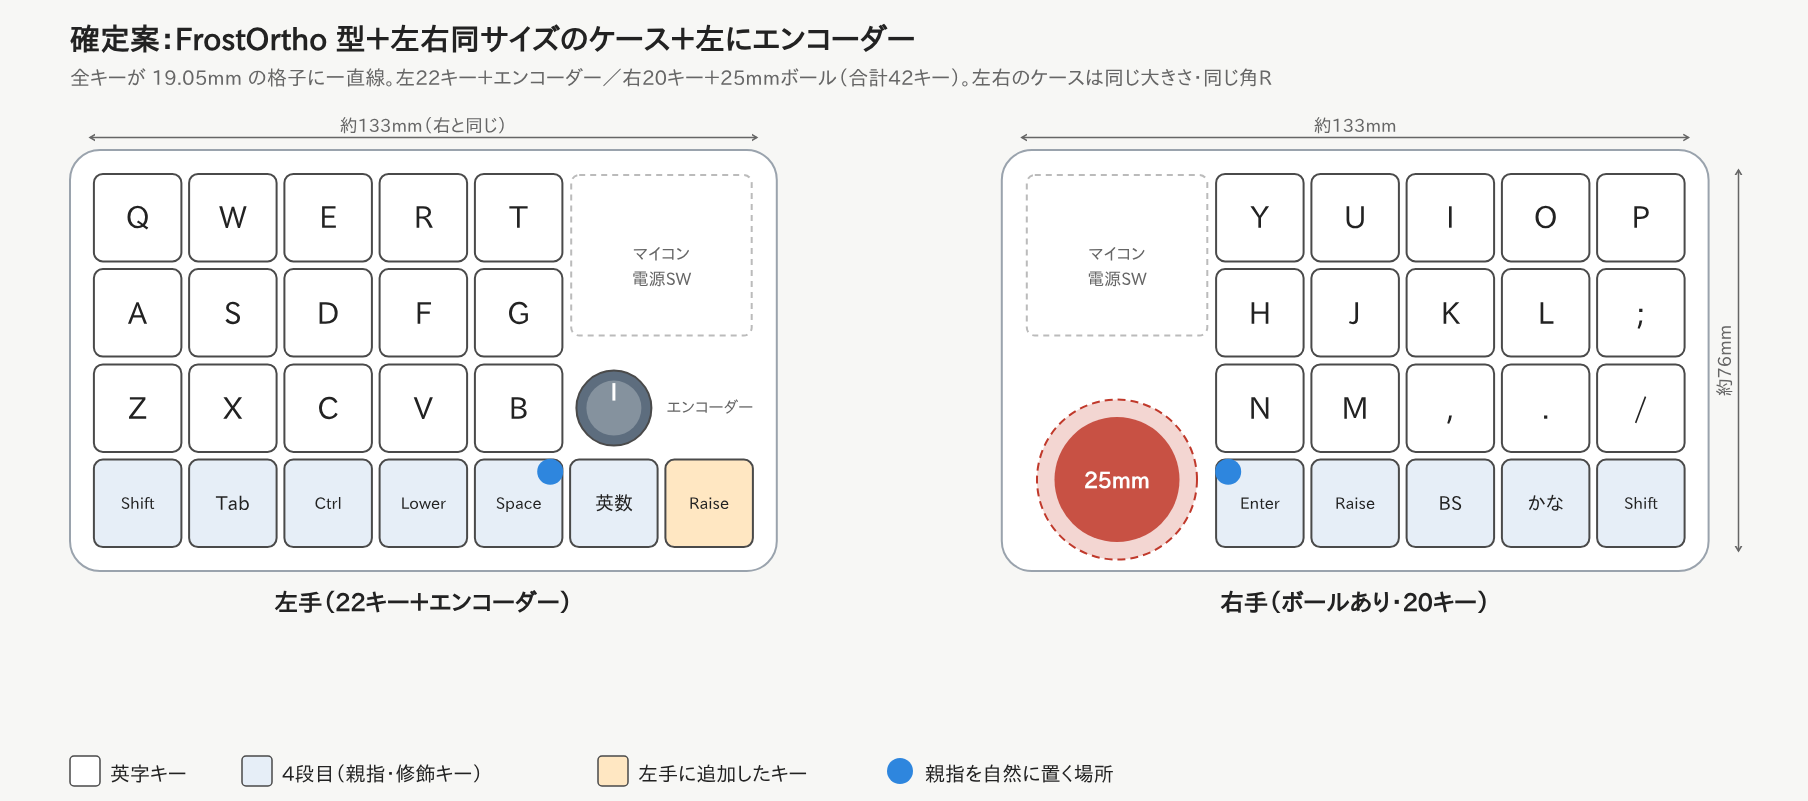
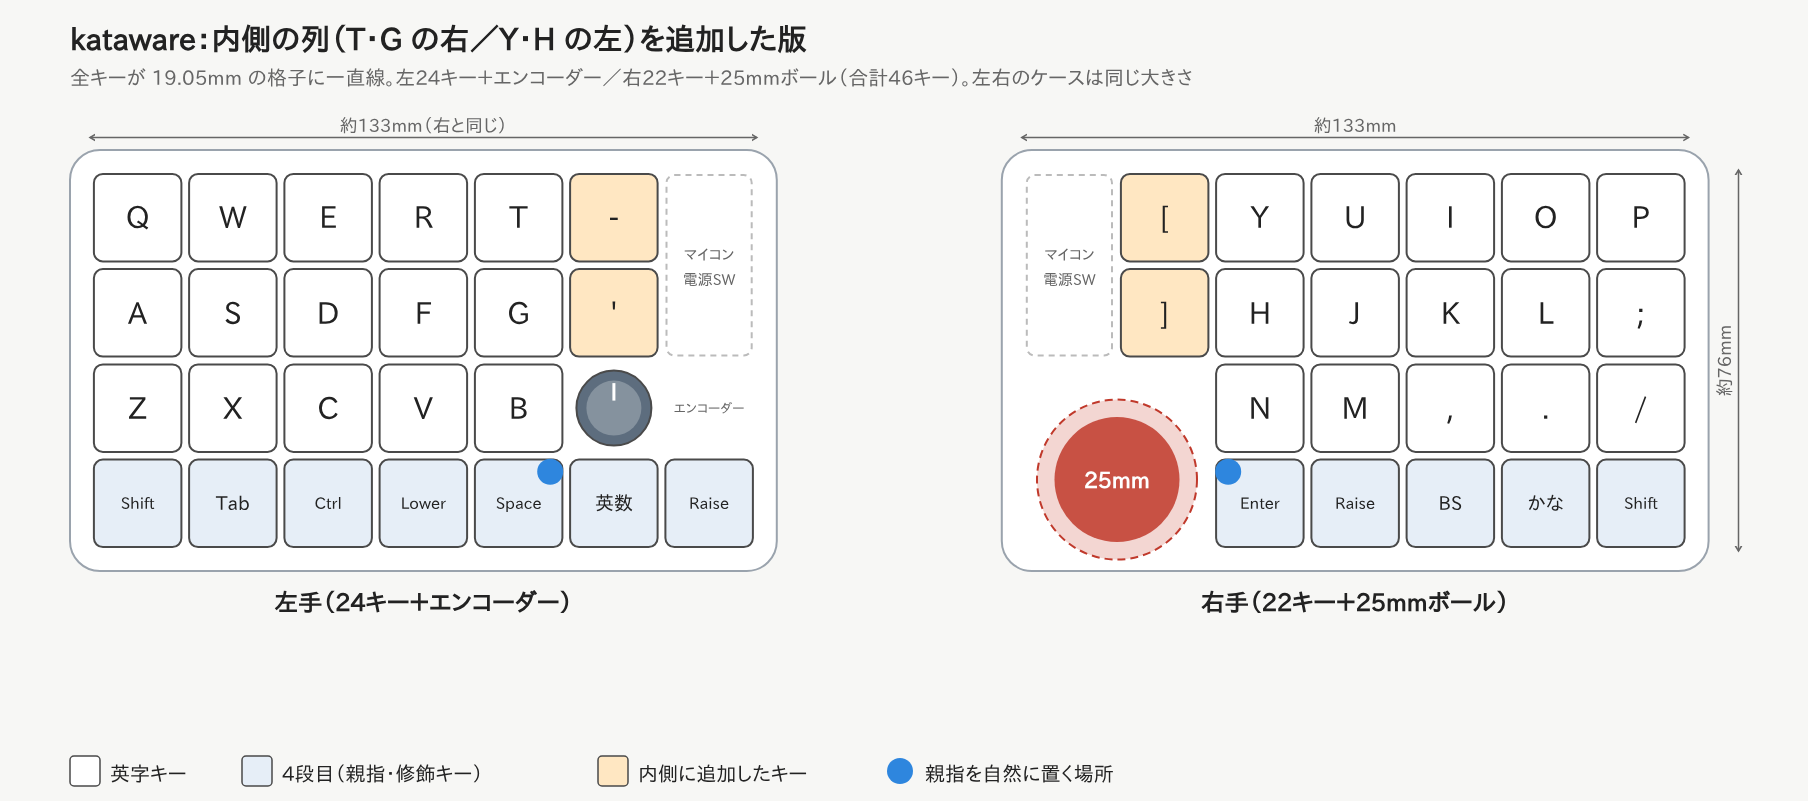
Add inner column keys next to T/G and Y/H (46 keys)
- Left: COL5 x ROW0/ROW1 beside T and G.
- Right: new innermost column on D21 for the keys beside Y and H.
- Controllers move to the outer half of each inner strip; the ball
  and encoder positions are unchanged.
- Default bindings: - and ' on the left, [ and ] on the right.
- Update layout image and README.

Claude-Session: https://claude.ai/code/session_017zNm7dMSTHELcztuNr6aNy

diff --git a/tools/draw_layout.py b/tools/draw_layout.py
@@ -106,7 +106,7 @@ def half_right(svg, ox, oy, ball_fn, alpha_ox):
 
 def legend(svg, x, y):
     items = [(C["alpha"], "英字キー"), (C["mod"], "4段目（親指・修飾キー）"),
-             (C["extra"], "左手に追加したキー")]
+             (C["extra"], "内側に追加したキー")]
     cx = x
     for fill, label in items:
         svg.add(f'<rect x="{mm(cx):.1f}" y="{mm(y):.1f}" width="{mm(6):.1f}" height="{mm(6):.1f}" rx="4" '
@@ -199,8 +199,8 @@ def plan_final():
     w = MARGIN*2 + lw + GAP + rw + 2*WALL + 14
     h = title_h + 4*U + 2*WALL + 46
     svg = Svg(mm(w), mm(h))
-    svg.text(MARGIN, 10, "確定案：FrostOrtho 型＋左右同サイズのケース＋左にエンコーダー", 30, weight="bold")
-    svg.text(MARGIN, 17, "全キーが 19.05mm の格子に一直線。左22キー＋エンコーダー／右20キー＋25mmボール（合計42キー）。左右のケースは同じ大きさ・同じ角R", 20, color=C["sub"])
+    svg.text(MARGIN, 10, "kataware：内側の列（T・G の右／Y・H の左）を追加した版", 30, weight="bold")
+    svg.text(MARGIN, 17, "全キーが 19.05mm の格子に一直線。左24キー＋エンコーダー／右22キー＋25mmボール（合計46キー）。左右のケースは同じ大きさ", 20, color=C["sub"])
     oy = title_h + WALL
     lx = MARGIN + WALL
     def case(x, y, cw, ch):
@@ -218,17 +218,19 @@ def plan_final():
     for c in range(5):
         svg.key(lx + c*U, oy + 3*U, LROW4[c], C["mod"])
     svg.key(lx + 5*U, oy + 3*U, "英数", C["mod"])
-    svg.key(lx + 6*U, oy + 3*U, "Raise", C["extra"])
+    svg.key(lx + 6*U, oy + 3*U, "Raise", C["mod"])
     svg.thumb(lx + 4*U, oy + 3*U)
     ex, ey = lx + 5.5*U, oy + 2.5*U
     svg.add(f'<circle cx="{mm(ex):.1f}" cy="{mm(ey):.1f}" r="{mm(7.5):.1f}" fill="#5d6d7e" stroke="{C["stroke"]}" stroke-width="2"/>')
     svg.add(f'<circle cx="{mm(ex):.1f}" cy="{mm(ey):.1f}" r="{mm(5.5):.1f}" fill="#85929e"/>')
     svg.add(f'<line x1="{mm(ex):.1f}" y1="{mm(ey-5):.1f}" x2="{mm(ex):.1f}" y2="{mm(ey-1.5):.1f}" stroke="#fff" stroke-width="3"/>')
-    svg.text(lx + 6*U + 1, ey + 1, "エンコーダー", 16, "start", C["sub"])
-    svg.add(f'<rect x="{mm(lx+5*U+1):.1f}" y="{mm(oy+1):.1f}" width="{mm(STRIP-2):.1f}" height="{mm(2*U-6):.1f}" rx="8" '
+    svg.text(lx + 6.5*U, ey + 1, "エンコーダー", 13, "middle", C["sub"])
+    svg.key(lx + 5*U, oy, "-", C["extra"])
+    svg.key(lx + 5*U, oy + U, "'", C["extra"])
+    svg.add(f'<rect x="{mm(lx+6*U+1):.1f}" y="{mm(oy+1):.1f}" width="{mm(U-2):.1f}" height="{mm(2*U-2):.1f}" rx="8" '
             f'fill="none" stroke="{C["empty"]}" stroke-width="2" stroke-dasharray="6 5"/>')
-    svg.text(lx + 5*U + STRIP/2, oy + U - 1, "マイコン", 17, "middle", C["sub"])
-    svg.text(lx + 5*U + STRIP/2, oy + U + 4, "電源SW", 17, "middle", C["sub"])
+    svg.text(lx + 6.5*U, oy + U - 1, "マイコン", 15, "middle", C["sub"])
+    svg.text(lx + 6.5*U, oy + U + 4, "電源SW", 15, "middle", C["sub"])
 
     # 右手: 内側にボール帯
     gx = rx + STRIP
@@ -239,14 +241,16 @@ def plan_final():
     for c in range(5):
         svg.key(gx + c*U, oy + 3*U, RROW4[c], C["mod"])
     svg.add(f'<circle cx="{mm(gx+3.2):.1f}" cy="{mm(oy+3*U+3.2):.1f}" r="{mm(2.6):.1f}" fill="{C["thumb"]}"/>')
-    svg.add(f'<rect x="{mm(rx+1):.1f}" y="{mm(oy+1):.1f}" width="{mm(STRIP-2):.1f}" height="{mm(2*U-6):.1f}" rx="8" '
+    svg.key(gx - U, oy, "[", C["extra"])
+    svg.key(gx - U, oy + U, "]", C["extra"])
+    svg.add(f'<rect x="{mm(rx+1):.1f}" y="{mm(oy+1):.1f}" width="{mm(U-2):.1f}" height="{mm(2*U-2):.1f}" rx="8" '
             f'fill="none" stroke="{C["empty"]}" stroke-width="2" stroke-dasharray="6 5"/>')
-    svg.text(rx + STRIP/2, oy + U - 1, "マイコン", 17, "middle", C["sub"])
-    svg.text(rx + STRIP/2, oy + U + 4, "電源SW", 17, "middle", C["sub"])
+    svg.text(rx + U/2, oy + U - 1, "マイコン", 15, "middle", C["sub"])
+    svg.text(rx + U/2, oy + U + 4, "電源SW", 15, "middle", C["sub"])
     svg.ball(rx + STRIP/2, oy + 3.25*U)
 
-    svg.text(lx + lw/2, oy + 4*U + WALL + 8, "左手（22キー＋エンコーダー）", 24, "middle", weight="bold")
-    svg.text(rx + rw/2, oy + 4*U + WALL + 8, "右手（ボールあり・20キー）", 24, "middle", weight="bold")
+    svg.text(lx + lw/2, oy + 4*U + WALL + 8, "左手（24キー＋エンコーダー）", 24, "middle", weight="bold")
+    svg.text(rx + rw/2, oy + 4*U + WALL + 8, "右手（22キー＋25mmボール）", 24, "middle", weight="bold")
     svg.dim_h(lx, lx + lw, oy - WALL - 2.5, "約133mm（右と同じ）")
     svg.dim_h(rx, rx + rw, oy - WALL - 2.5, "約133mm")
     svg.dim_v(rx + rw + WALL + 6, oy, oy + 4*U, "約76mm")

diff --git a/README.md b/README.md
@@ -33,7 +33,7 @@
 
 | 項目 | 内容 |
 | --- | --- |
-| 配列 | オーソリニア。片手 5列 × 4段、左手だけ4段目の内側に2キー追加 → **合計42キー**（左22・右20） |
+| 配列 | オーソリニア。片手 5列 × 4段 ＋ **1・2段目の内側に1列（T・G の右／Y・H の左）** ＋ 左手4段目の内側に2キー → **合計46キー**（左24・右22） |
 | エンコーダー | **左手**の内側（英数キーの上）。回す＋押し込みスイッチ付き。ロープロファイル（薄型）推奨 |
 | キー間隔 | 19.05mm（MX と同じ） |
 | スイッチ | **MX / Choc（ロープロファイル）両対応・ソケット式** |
@@ -47,7 +47,7 @@
 ### デザインの方針（DRESSTHING を参考に）
 
 - **左右を同じ大きさ・同じ角の丸みの長方形**にして、並べたときに1つの道具に見えるようにする
-- 内側の帯（キー2つ分の幅＝38.1mm）は左右で対になる：右は「マイコン＋ボール」、左は「マイコン＋エンコーダー＋親指キー2つ」
+- 内側の帯（キー2つ分の幅＝38.1mm）は左右で対になる：右は「追加キー2つ＋マイコン＋ボール」、左は「追加キー2つ＋マイコン＋エンコーダー＋親指キー2つ」
 - **ケースとプレートは着せ替えできる作り**にする（MX用/Choc用プレートの交換、色違いケースなど）
 - 飾りは足さず、面取り・角の丸み・素材の色で整える
 
@@ -107,13 +107,13 @@
 | COL2 | D19 | |
 | COL3 | D18 | |
 | COL4 | D15 | |
-| COL5 | D14 | 左手：英数キーとエンコーダー押し込みだけ |
+| COL5 | D14 | 左手：T・G の右の追加キー、エンコーダー押し込み、英数キー |
 | COL6 | D2 | 左手の一番内側：親指の段の追加キー（Raise）だけ |
 
-右手側は列の並びが左右反転していて、5列だけ使います（内側から D14, D15, D18, D19, D20。D21 は使わない）。
+右手側は列の並びが左右反転していて、内側から D21（Y・H の左の追加キーだけ）, D14, D15, D18, D19, D20 です。
 
-- 左手：5列 × 4段 ＋ 4段目の内側に2キー（COL5・COL6 × ROW3）＝ 22キー ＋ エンコーダー押し込み（COL5 × ROW2）
-- 右手：5列 × 4段 ＝ 20キー
+- 左手：5列 × 4段 ＋ T・G の右（COL5 × ROW0/ROW1）＋ 4段目の内側に2キー（COL5・COL6 × ROW3）＝ 24キー ＋ エンコーダー押し込み（COL5 × ROW2）
+- 右手：5列 × 4段 ＋ Y・H の左（D21 の列 × ROW0/ROW1）＝ 22キー
 
 ### ロータリーエンコーダー（左手のみ）
 
@@ -222,10 +222,10 @@ zisaku/
 ## 7. 初期キーマップ
 
 ```
- Q    W    E    R     T                  Y     U     I    O    P
- A    S    D    F     G                  H     J     K    L    ;
- Z    X    C    V     B    (◎)      ●    N     M     ,    .    /
- Sft  Tab  Ctl  Lower Space 英数 Raise   Enter Raise BS   かな  Sft
+ Q    W    E    R     T     -                    [     Y     U     I    O    P
+ A    S    D    F     G     '                    ]     H     J     K    L    ;
+ Z    X    C    V     B    (◎)              ●          N     M     ,    .    /
+ Sft  Tab  Ctl  Lower Space 英数 Raise                 Enter Raise BS   かな  Sft
 ```
 
 - **Ctl**：タップで Esc、長押しで Ctrl
@@ -285,7 +285,7 @@ Bluetooth に表示される名前は `Kconfig.defconfig` の `ZMK_KEYBOARD_NAME
 ## 9. 次にやること（ハードウェア）
 
 1. **部品を決めて買う**：ProMicro nRF52840 互換 ×2、PMW3610 ブレイクアウト、25mm ボール、
-   ボール支持用ベアリング ×3、ロータリーエンコーダー（押し込み付き・薄型）×1、キースイッチ ×42、ホットスワップソケット（MX用 or Choc用）×42、ダイオード（1N4148 など）×43、電池 ×2、電源スイッチ ×2、リセットスイッチ ×2
+   ボール支持用ベアリング ×3、ロータリーエンコーダー（押し込み付き・薄型）×1、キースイッチ ×46、ホットスワップソケット（MX用 or Choc用）×46、ダイオード（1N4148 など）×47、電池 ×2、電源スイッチ ×2、リセットスイッチ ×2
 2. **キー配置を決める**：[Keyboard Layout Editor](http://www.keyboard-layout-editor.com/) や
    [Ergogen](https://ergogen.xyz/) で配置を決める（Ergogen は配置から基板の下書きまで作れます）
 3. **基板設計**：[KiCad](https://www.kicad.org/) で回路図 → 基板。上の配線表どおりにつなぐ
